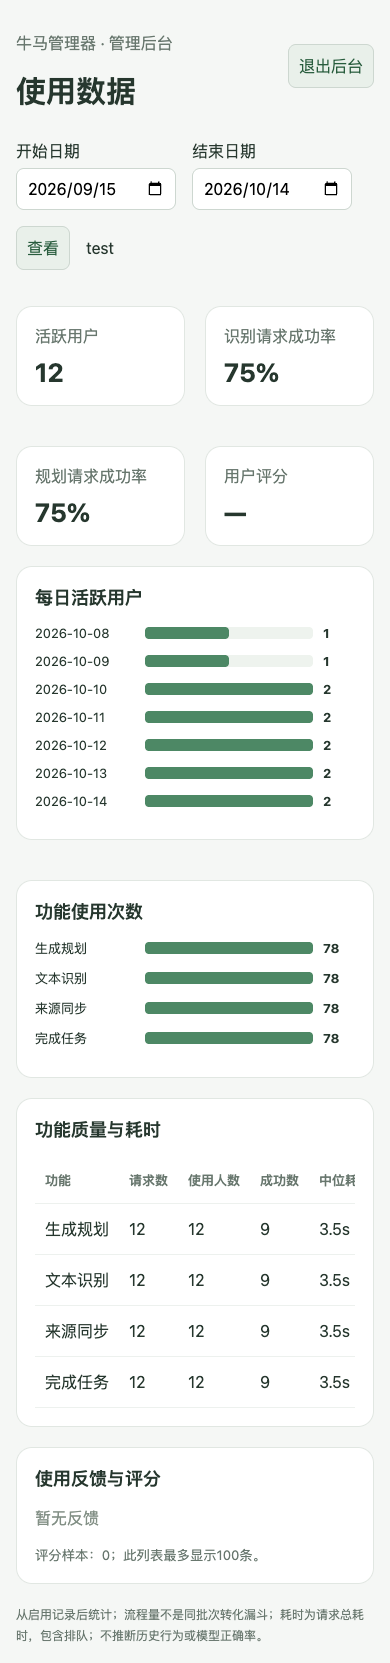
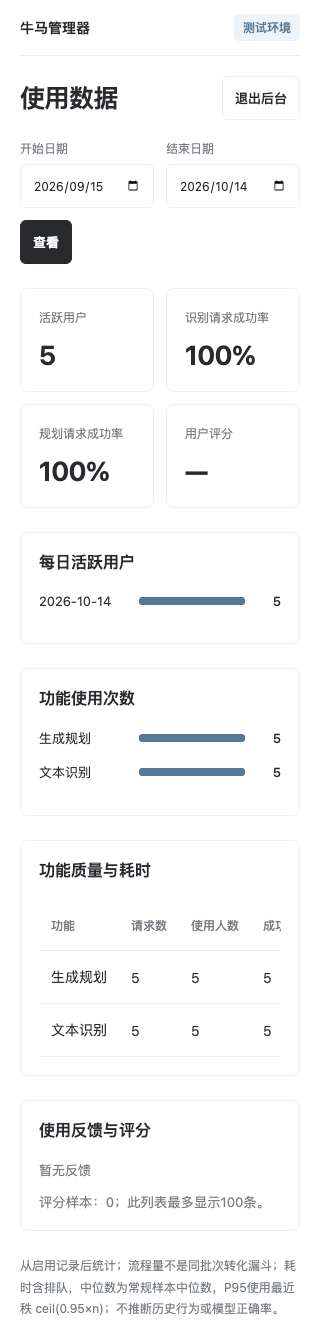
fix: record read-only visits and align usage dashboard UI (Refs #157)

diff --git a/frontend/src/admin-usage.css b/frontend/src/admin-usage.css
@@ -1,1 +1,4 @@
-:root{font-family:system-ui,sans-serif;color:#26372e;background:#f5f7f5}*{box-sizing:border-box}body{margin:0}main{max-width:1200px;margin:auto;padding:32px}header,form{display:flex;align-items:center;gap:16px;flex-wrap:wrap}header{justify-content:space-between;margin-bottom:24px}header p,small,footer{color:#68776e}h1{margin:4px 0;font-size:30px}h2{font-size:18px;margin-top:0}article,.login{background:white;border:1px solid #e1e7e2;border-radius:16px;padding:24px;margin-top:20px}.cards,.charts{display:grid;gap:20px}.cards{grid-template-columns:repeat(4,1fr)}.charts{grid-template-columns:1fr 1fr}.cards article strong{display:block;font-size:32px;margin-top:10px}.cards article span{color:#68776e}label{display:grid;gap:6px}input,button{font:inherit;border:1px solid #cdd7d0;border-radius:8px;padding:10px;background:white}button{cursor:pointer;background:#e9f0ea;color:#285c3d}.bar-row{display:grid;grid-template-columns:100px 1fr 32px;align-items:center;gap:10px;margin:12px 0;font-size:13px}.bar-row>div{background:#eef3ee;border-radius:4px;height:12px}.bar-row i{display:block;height:100%;border-radius:4px;background:#4d8865}.table-wrap{overflow:auto}table{width:100%;border-collapse:collapse;text-align:left;white-space:nowrap}td,th{padding:14px 10px;border-bottom:1px solid #edf1ee}th{color:#68776e;font-size:13px}.feedback{border-bottom:1px solid #edf1ee;padding:12px 0}.feedback p{white-space:pre-wrap;overflow-wrap:anywhere}footer{font-size:12px;line-height:1.8;margin-top:20px}.login{max-width:400px;margin:12vh auto}.login form{display:grid;margin-top:24px}[role=alert]{color:#a03e32}.empty{color:#839086}@media(max-width:720px){main{padding:16px}.cards{grid-template-columns:1fr 1fr}.charts{grid-template-columns:1fr}article{padding:18px}.cards article strong{font-size:26px}}
+/* Visual tokens follow PR #156 (ef0abea), without importing its pending business changes. */
+:root{font-family:Inter,-apple-system,BlinkMacSystemFont,"Segoe UI","PingFang SC","Microsoft YaHei",sans-serif;color:#282a2d;background:#fff;font-synthesis:none;--ink:#282a2d;--muted:#777c82;--line:#eceef0;--sidebar:#f7f7f5;--blue:#547895;--blue-light:#edf3f8;--danger:#ad5455;--rail:#f7f9fa;--radius:8px;--page-max-width:1450px}
+*{box-sizing:border-box}html{scrollbar-gutter:stable}body{margin:0}main{max-width:var(--page-max-width);margin:auto;padding:0 44px 32px}.admin-topbar{height:64px;display:flex;align-items:center;justify-content:space-between;border-bottom:1px solid var(--line);font-size:14px;font-weight:650}.environment{font-size:12px;font-weight:500;color:var(--blue);background:var(--blue-light);padding:5px 9px;border-radius:5px}.page-heading{display:flex;align-items:center;justify-content:space-between;gap:16px;margin:24px 0 20px}h1{margin:0;font-size:29px;line-height:1.25;letter-spacing:-.5px}h2{font-size:16px;font-weight:650;margin:0 0 20px}form{display:flex;align-items:end;gap:12px;flex-wrap:wrap}label{display:grid;gap:7px;min-width:0;font-size:12px;color:var(--muted)}input,button{font:inherit;border:1px solid var(--line);border-radius:6px;padding:10px 12px;min-height:44px;background:#fff;color:var(--ink)}input{width:100%;min-width:0}button{cursor:pointer;font-size:13px;font-weight:550}button:hover{background:var(--sidebar)}button:focus-visible,a:focus-visible{outline:2px solid #7e9db7;outline-offset:3px}input:focus{outline:2px solid #aac1d3;outline-offset:1px}#range>button,.login button{background:var(--ink);border-color:var(--ink);color:#fff}#range>label{flex:0 1 180px}article,.login{background:#fff;border:1px solid var(--line);border-radius:var(--radius);padding:24px;margin-top:24px}.cards,.charts{display:grid;gap:24px;margin-top:24px}.cards{grid-template-columns:repeat(4,minmax(0,1fr))}.charts{grid-template-columns:repeat(2,minmax(0,1fr))}.cards article,.charts article{margin:0}.cards article strong{display:block;font-size:30px;font-weight:650;line-height:1.3;margin-top:12px;letter-spacing:-.6px}.cards article span{color:var(--muted);font-size:13px}.bar-row{display:grid;grid-template-columns:100px minmax(0,1fr) 32px;align-items:center;gap:12px;margin:16px 0;font-size:13px}.bar-row>div{background:var(--rail);border-radius:3px;height:8px}.bar-row i{display:block;height:100%;border-radius:3px;background:var(--blue)}.bar-row b{font-weight:550;text-align:right}.table-wrap{overflow:auto;max-width:100%}table{width:100%;border-collapse:collapse;text-align:left;white-space:nowrap;font-size:14px}td,th{padding:16px 12px;border-bottom:1px solid var(--line)}th{color:var(--muted);font-size:12px;font-weight:500}.feedback{border-bottom:1px solid var(--line);padding:16px 0}.feedback p{margin:8px 0;white-space:pre-wrap;overflow-wrap:anywhere}small,footer,.empty{color:var(--muted)}footer{font-size:12px;line-height:1.8;margin-top:24px}.login{max-width:400px;margin:14vh auto}.login form{display:grid;margin-top:24px}.login label{font-size:13px}.login h1{font-size:25px}[role=alert]{color:var(--danger)}[role=alert]:empty{display:none}.empty{font-size:13px}
+@media(max-width:700px){main{padding:0 20px 24px}.admin-topbar{height:56px}.page-heading{margin-top:20px;gap:10px}h1{font-size:25px}.cards{grid-template-columns:repeat(2,minmax(0,1fr));gap:12px}.charts{grid-template-columns:minmax(0,1fr)}article{padding:18px}.cards article strong{font-size:27px}.cards article span{font-size:12px}#range>label{flex:1 1 130px}.login{padding:20px}.login h1{font-size:23px}.bar-row{grid-template-columns:92px minmax(0,1fr) 28px;gap:8px}}

diff --git a/frontend/src/admin-usage.js b/frontend/src/admin-usage.js
@@ -8,7 +8,7 @@ async function load(start='',end=''){
   const data=await request('/api/admin/usage'+(start?`?start=${start}&end=${end}`:''));
   const find=name=>data.metrics.find(m=>m.event===name),rate=name=>{const m=find(name);return m?Math.round(m.success/m.count*100)+'%':'—';};
   const scores={length:data.rating.samples},average=data.rating.average===null?'—':data.rating.average.toFixed(1);
-  root.innerHTML=`<header><div><p>牛马管理器 · 管理后台</p><h1>使用数据</h1></div><button id="admin-logout">退出后台</button></header><form id="range"><label>开始日期<input name="start" type="date" value="${data.start}" required></label><label>结束日期<input name="end" type="date" value="${data.end}" required></label><button>查看</button><span>${escape(data.environment)}</span></form><p id="admin-error" role="alert"></p><section class="cards">${[['活跃用户',data.activeUsers],['识别请求成功率',rate('recognition')],['规划请求成功率',rate('planning')],['用户评分',average]].map(([label,value])=>`<article><span>${label}</span><strong>${value}</strong></article>`).join('')}</section><section class="charts"><article><h2>每日活跃用户</h2>${bars(data.daily,r=>r.day,r=>r.users)}</article><article><h2>功能使用次数</h2>${bars(data.metrics.filter(m=>!['login','register','visit'].includes(m.event)),r=>labels[r.event]||r.event,r=>r.quantity)}</article></section><article><h2>功能质量与耗时</h2><div class="table-wrap"><table><thead><tr><th>功能</th><th>请求数</th><th>使用人数</th><th>成功数</th><th>中位耗时</th><th>P95耗时</th></tr></thead><tbody>${data.metrics.map(m=>`<tr><td>${escape(labels[m.event]||m.event)}</td><td>${m.count}</td><td>${m.users}</td><td>${m.success}</td><td>${(m.medianMs/1000).toFixed(1)}s</td><td>${(m.p95Ms/1000).toFixed(1)}s</td></tr>`).join('')}</tbody></table></div></article><article><h2>使用反馈与评分</h2>${data.feedback.map(f=>`<div class="feedback"><small>${escape(f.created_at.slice(0,16).replace('T',' '))} · ${f.score?f.score+'分':'建议'}</small><p>${escape(f.message||'用户评分')}</p></div>`).join('')||'<p class="empty">暂无反馈</p>'}<small>评分样本：${scores.length}；此列表最多显示100条。</small></article><footer>${escape(data.methodology)}</footer>`;
+  root.innerHTML=`<div class="admin-topbar"><span>牛马管理器</span><span class="environment">${escape(({production:"正式环境",test:"测试环境",development:"开发环境"})[data.environment]||data.environment)}</span></div><header class="page-heading"><h1 id="page-title">使用数据</h1><button id="admin-logout">退出后台</button></header><form id="range"><label>开始日期<input name="start" type="date" value="${data.start}" required></label><label>结束日期<input name="end" type="date" value="${data.end}" required></label><button>查看</button></form><p id="admin-error" role="alert"></p><section class="cards">${[['活跃用户',data.activeUsers],['识别请求成功率',rate('recognition')],['规划请求成功率',rate('planning')],['用户评分',average]].map(([label,value])=>`<article><span>${label}</span><strong>${value}</strong></article>`).join('')}</section><section class="charts"><article><h2>每日活跃用户</h2>${bars(data.daily,r=>r.day,r=>r.users)}</article><article><h2>功能使用次数</h2>${bars(data.metrics.filter(m=>!['login','register','visit'].includes(m.event)),r=>labels[r.event]||r.event,r=>r.quantity)}</article></section><article><h2>功能质量与耗时</h2><div class="table-wrap"><table><thead><tr><th>功能</th><th>请求数</th><th>使用人数</th><th>成功数</th><th>中位耗时</th><th>P95耗时</th></tr></thead><tbody>${data.metrics.map(m=>`<tr><td>${escape(labels[m.event]||m.event)}</td><td>${m.count}</td><td>${m.users}</td><td>${m.success}</td><td>${(m.medianMs/1000).toFixed(1)}s</td><td>${(m.p95Ms/1000).toFixed(1)}s</td></tr>`).join('')}</tbody></table></div></article><article><h2>使用反馈与评分</h2>${data.feedback.map(f=>`<div class="feedback"><small>${escape(f.created_at.slice(0,16).replace('T',' '))} · ${f.score?f.score+'分':'建议'}</small><p>${escape(f.message||'用户评分')}</p></div>`).join('')||'<p class="empty">暂无反馈</p>'}<small>评分样本：${scores.length}；此列表最多显示100条。</small></article><footer>${escape(data.methodology)}</footer>`;
   document.querySelector('#range').onsubmit=event=>{event.preventDefault();const f=new FormData(event.target);void load(f.get('start'),f.get('end'));};
   document.querySelector('#admin-logout').onclick=async()=>{await request('/api/admin/auth/logout',{});location.reload();};
  }catch(error){

diff --git a/frontend/tests/usage-feedback.test.js b/frontend/tests/usage-feedback.test.js
@@ -4,7 +4,7 @@ import {readFile} from 'node:fs/promises';
 globalThis.window=new EventTarget();globalThis.document=new EventTarget();
 globalThis.CustomEvent=class extends Event{constructor(name){super(name);}};
 document.querySelector=()=>null;
-const {session}=await import('../src/store.js');
+const {session,initSession,authenticate}=await import('../src/store.js');
 const {feedbackBox,usageVisit}=await import('../src/usage-feedback.js');
 test('feedback box is voluntary, login-only, and has no dashboard link',()=>{
  session.user=null;assert.equal(feedbackBox(),'');
@@ -29,4 +29,31 @@ test('an open tab records the next Beijing day without requiring reload',async()
  session.user={id:'midnight-synthetic'};
  try{await usageVisit();await usageVisit();clock='2026-10-14T16:01:00Z';await usageVisit();assert.equal(count,2);}
  finally{globalThis.Date=RealDate;}
+});
+test('restoring a session and logging in record read-only visits without clicking',async()=>{
+ const calls=[];let uid='read-only-restore';
+ globalThis.fetch=async url=>{calls.push(url);return {ok:true,json:async()=>url==='/api/auth/me'?{user:{id:uid,name:'Synthetic'}}:url==='/api/usage/visit'?{offerRating:false}:{}};};
+ await initSession();await Promise.resolve();
+ assert.equal(calls.filter(url=>url==='/api/usage/visit').length,1);
+ uid='read-only-login';await authenticate('login',{email:'synthetic@example.test',password:'Synthetic-only'});await Promise.resolve();
+ assert.equal(calls.filter(url=>url==='/api/usage/visit').length,2);
+});
+test('visible restoration and keyboard-only use claim a single daily visit',async()=>{
+ let count=0;session.user={id:'keyboard-only'};
+ globalThis.fetch=async()=>{count++;return {ok:true,json:async()=>({offerRating:false})};};
+ document.visibilityState='hidden';await usageVisit();assert.equal(count,0);
+ document.visibilityState='visible';document.dispatchEvent(new Event('visibilitychange'));
+ window.dispatchEvent(new Event('pageshow'));window.dispatchEvent(new Event('focus'));document.dispatchEvent(new Event('keydown'));
+ await Promise.resolve();assert.equal(count,1);
+ session.user={id:'only-keyboard-next'};document.dispatchEvent(new Event('keydown'));
+ await Promise.resolve();assert.equal(count,2);delete document.visibilityState;
+});
+test('a failed visit does not fail session initialization and can retry',async()=>{
+ let count=0;
+ globalThis.fetch=async url=>{
+  if(url==='/api/usage/visit'){count++;throw new TypeError('synthetic unavailable');}
+  return {ok:true,json:async()=>url==='/api/auth/me'?{user:{id:'visit-failure',name:'Synthetic'}}:{}};
+ };
+ const result=await initSession();assert.deepEqual(result.tasks,[]);await new Promise(setImmediate);
+ await usageVisit();assert.equal(count,2);
 });

diff --git a/frontend/src/usage-feedback.js b/frontend/src/usage-feedback.js
@@ -4,6 +4,7 @@ export function feedbackBox(){
  return session.user?`<section class="panel"><h2>使用反馈</h2><form id="usage-feedback-form"><label>有什么可以改进？<textarea name="message" maxlength="2000" required rows="3" placeholder="写下你的建议…"></textarea></label><button class="btn" type="submit">发送反馈</button><p role="status" data-feedback-status></p></form></section>`:'';
 }
 export async function usageVisit(){
+ if(document.visibilityState==='hidden')return;
  const uid=session.user?.id;if(!uid)return;
  const day=new Intl.DateTimeFormat('sv-SE',{timeZone:'Asia/Shanghai',year:'numeric',month:'2-digit',day:'2-digit'}).format(new Date());
  const key=uid+':'+day;if(offeredFor===key)return;
@@ -34,3 +35,8 @@ export async function submitUsageFeedback(form){
 window.addEventListener('niuma:account-reset',()=>{offeredFor=null;document.querySelector('#usage-rating')?.remove();});
 document.addEventListener('submit',event=>{if(event.target.id==='usage-feedback-form'){event.preventDefault();event.stopImmediatePropagation();void submitUsageFeedback(event.target);}},true);
 document.addEventListener('click',()=>{if(session.user)void usageVisit();});
+window.addEventListener('niuma:session-ready',()=>{void usageVisit();});
+document.addEventListener('visibilitychange',()=>{if(document.visibilityState==='visible')void usageVisit();});
+window.addEventListener('pageshow',()=>{void usageVisit();});
+window.addEventListener('focus',()=>{void usageVisit();});
+document.addEventListener('keydown',()=>{void usageVisit();});

diff --git a/frontend/src/team-store.js b/frontend/src/team-store.js
@@ -87,7 +87,7 @@ export async function initSession(){
   if(epoch!==accountEpoch)throw new Error('账号已切换');
   session.user={...result.user,display_name:result.user.name};workspace=next;
   versions=Object.fromEntries(Object.entries(workspace).map(([key,row])=>[key,row.version]));
-  report('saved');return view();
+  report('saved');window.dispatchEvent(new CustomEvent('niuma:session-ready'));return view();
  }catch(error){
   if(epoch!==accountEpoch)throw error;
   if(error.status===401){resetAccount();report('saved');return empty();}

diff --git a/server/usage.py b/server/usage.py
@@ -3,6 +3,8 @@ import hashlib
 import json
 import os
 import secrets
+import math
+from statistics import median
 from datetime import datetime, timedelta, timezone
 from urllib.parse import parse_qs, urlsplit
 
@@ -106,7 +108,7 @@ def summary(db, start, end):
         durations = sorted(r['duration_ms'] for r in values)
         metrics.append(dict(event=name,count=len(values),quantity=sum(r['quantity'] for r in values),
             users=len({r['actor'] for r in values}),success=sum(r['success'] for r in values),
-            medianMs=durations[len(durations)//2],p95Ms=durations[min(len(durations)-1,int(len(durations)*.95))]))
+            medianMs=median(durations),p95Ms=durations[math.ceil(len(durations)*.95)-1]))
     feedback = [dict(r) for r in db.execute('SELECT actor,created_at,kind,score,message FROM usage_feedback WHERE substr(created_at,1,10) BETWEEN ? AND ? ORDER BY created_at DESC',(start,end)) if r['actor'] not in excluded]
     scores=[r['score'] for r in feedback if r['kind']=='rating']
     rating=dict(samples=len(scores),average=round(sum(scores)/len(scores),2) if scores else None)
@@ -115,7 +117,7 @@ def summary(db, start, end):
     return dict(start=start,end=end,activeUsers=len({r['actor'] for r in rows}),
         daily=[dict(day=day,users=len(users)) for day,users in sorted(by_day.items())],
         metrics=metrics,feedback=feedback,rating=rating,environment=os.environ.get('NIUMA_ENVIRONMENT','development'),
-        methodology='从启用记录后统计；流程量不是同批次转化漏斗；耗时为请求总耗时，包含排队；不推断历史行为或模型正确率。')
+        methodology='从启用记录后统计；流程量不是同批次转化漏斗；耗时含排队，中位数为常规样本中位数，P95使用最近秩 ceil(0.95×n)；不推断历史行为或模型正确率。')
 
 def route(handler, db, uid, path, body, error):
     if path=='/api/usage/visit' and handler.command=='POST':

diff --git a/server/test_usage.py b/server/test_usage.py
@@ -107,6 +107,17 @@ class UsageTests(unittest.TestCase):
         with app.connection() as db:
             usage.workspace_changes(db,self.uid,[],[dict(id='legacy',status='completed',due=dict(date='unknown'))])
             self.assertFalse(db.execute('SELECT 1 FROM usage_events WHERE event="dated_task_completed"').fetchone())
+    def test_median_and_nearest_rank_p95_boundaries(self):
+        with app.connection() as db:
+            for samples,expected_median,expected_p95 in [([100],100,100),([100,1100],600,1100),(list(range(1,21)),10.5,19),(list(range(1,22)),11,20)]:
+                with self.subTest(samples=len(samples)):
+                    db.execute('DELETE FROM usage_events')
+                    for duration in samples:usage.record(db,self.uid,'planning',duration_ms=duration)
+                    result=usage.summary(db,'2000-01-01','2099-01-01')['metrics'][0]
+                    self.assertEqual(result['medianMs'],expected_median)
+                    self.assertEqual(result['p95Ms'],expected_p95)
+            db.execute('DELETE FROM usage_events')
+            self.assertEqual(usage.summary(db,'2000-01-01','2099-01-01')['metrics'],[])
     def test_future_deadline_completion_has_numeric_only_on_time_metric(self):
         task=dict(id='a',status='completed',due=dict(date='2099-01-01',time='10:00'))
         with app.connection() as db:

diff --git a/server/README.md b/server/README.md
@@ -56,6 +56,7 @@ server/
 - `NIUMA_ANALYTICS_EXCLUDED_USER_IDS` 是空格分隔的测试账号 ID，设置后统计与反馈列表排除这些账号。
 - 记录注册/登录、来源同步、识别、拆解、规划生成/采纳和任务新增/编辑/完成，保存匿名标识、次数、结果和请求总耗时，不保存任务正文、邮件账号、凭据、附件或 IP。
 - 请求总耗时含排队，不作为纯模型耗时；识别返回 HTTP 200 但业务失败计为失败，分页读取不计功能调用。
+- 中位耗时使用常规样本中位数，偶数样本取中间两项均值；P95 使用最近秩 `ceil(0.95×n)`，不足20项时可能等于最大值。
 - 任务按时完成按本次服务端完成变更与 DDL 比较，仅统计启用后的有 DDL 完成事件，不补造旧数据或实际线下完成时刻。
 - 行为明细和反馈在记录新事件时清理90天之前的数据，后台日期范围最多90天，使用数据与各环境数据库一同隔离、备份。
 - 主动反馈允许用户输入最多2000字，后台只展示反馈内容和评分，不展示用户账号；用户自行填写的反馈不作为匿名文本保证。

diff --git a/frontend/README.md b/frontend/README.md
@@ -76,6 +76,8 @@ frontend/
 
 - 登录用户在「账号与数据」页面主动填写使用反馈，无额外通知弹窗。
 - 连续次日使用时右下角出现一次1–5分评分窗，可直接关闭，不遮挡任务编辑，不再重复提醒。
+- 成功恢复会话、登录完成、前台恢复和键盘交互会补记当天访问；隐藏页面不记录，每个账号每天去重，失败不影响读取任务。
+- 后台视觉参考未合并 PR #156 的最新规格（foolyuyu，`ef0abea`）：黑白文字、浅暖灰、少量雾蓝、8px圆角及统一标题层级，不引入该分支待修复的业务改动。
 - 管理员访问 `/admin.html` 查看使用统计，服务端逐请求校验权限，普通页面不加载后台图表脚本。
 - 后台仅展示启用统计后的记录和聚合数据，空数据明确显示暂无记录，不生成模拟趋势或历史行为。
 
